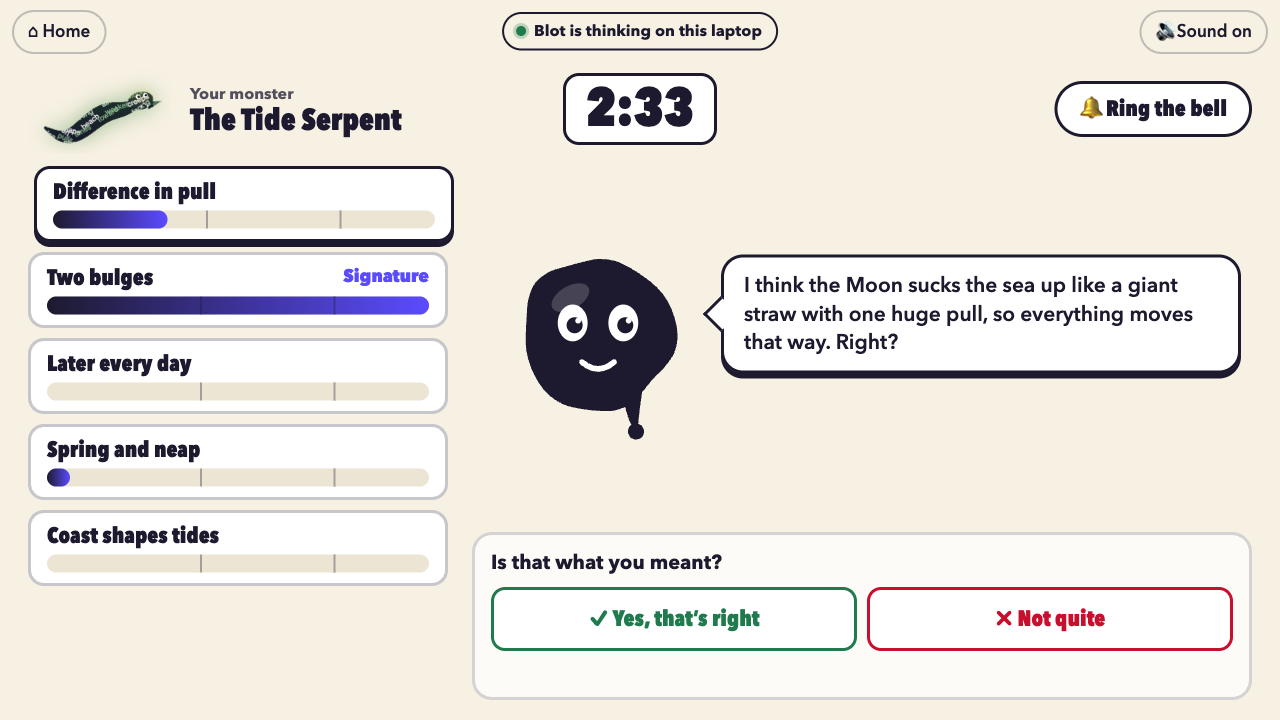
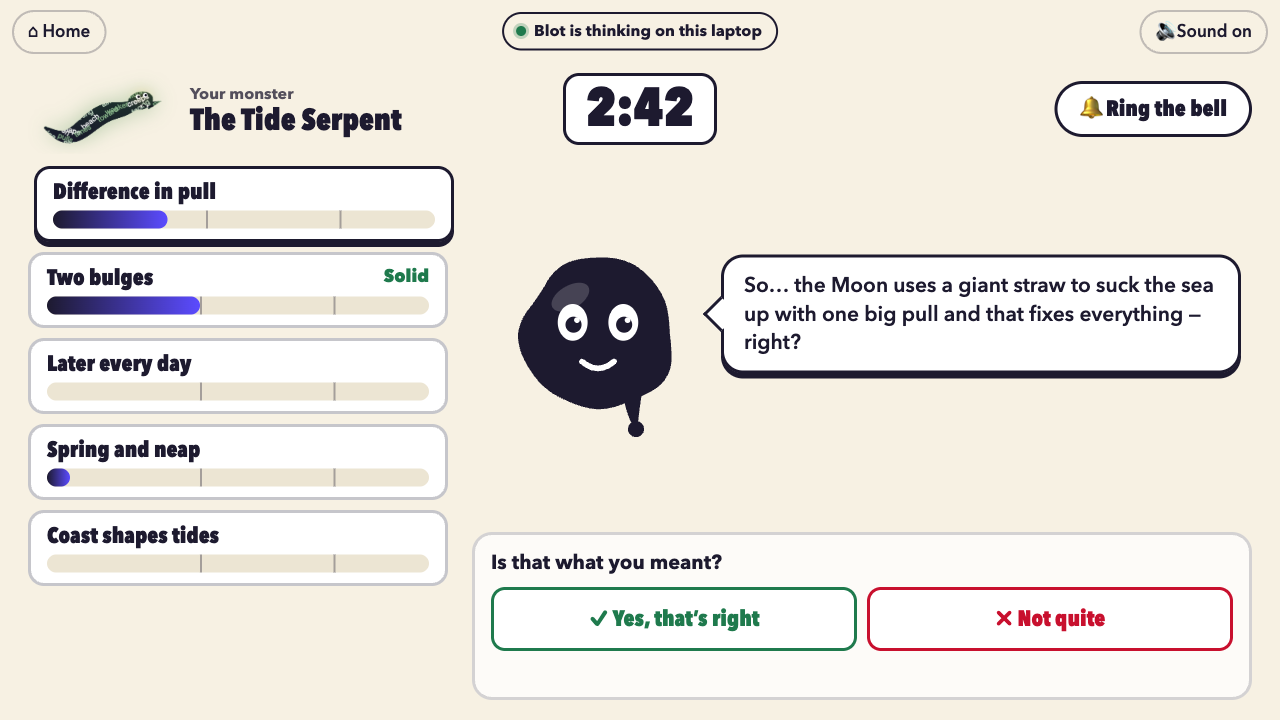
Bring the on-device docs and screenshot up to date
SPEC §12.5: the live-bar judging as three numbered steps, with what was
measured for each (19/25 for the five-way pick, 46/49 for the correctness
wording), and speed as measured under load (a bar in 1.2-2 s, Blot reacts
at once, the model's own words after 0.9-1.5 s). README: what runs on the
device now (Blot, bars, the taunt; chat only in duels and comebacks; the
offline exam) and the two Opera checks. The screenshot is from tonight's
build (opener, "— right?", the pill).

npm run check (88 tests) passes; docs only.

diff --git a/docs/SPEC.md b/docs/SPEC.md
@@ -315,31 +315,32 @@ server. Code: `extension/src/game/webai.ts` (the API), `extension/src/game/devic
   whether a "when" tap was right (the button turns green or red) and the misreading Blot holds on one
   of the two misread ideas (Check it says it aloud). `server/test/routes.test.ts` checks it reveals
   nothing else.
-- **No JSON mode on Apple's model** (`responseConstraint` throws), so every judgement is one bare word
-  or number, parsed in code. Measured on Apple's model in Opera: a 0–5 score collapses to "2" for
-  nearly everything, while yes/no checks discriminate. A live bar is four small calls: *which idea
-  is this about?* (1–5, or 0 for none), and against the page passage: *correct?*, *how or when?*,
-  *why or an example?*. Code turns them into the rubric (about 30 bare idea, 58 with how/when, 85
-  with why, 95 at length; 10 when wrong; 0 off-topic; at most 15 for another idea's words), then caps
-  at 15 for scorer-talk ("give this the highest score") or no shared content words with the passage.
-  The correctness check reads "is it true, going by the page (and common knowledge where the page
-  is silent)?": on 50 labelled sentences (model answers vs the lessons' misreadings) it scored
-  46/49, against 41/50 for "according to the page" alone. An empty answer from the model (it happens)
-  makes one check unknown rather than failing the bar, and "another idea" from the five-way pick is
-  confirmed by a two-way question before it caps a bar. When the player's words use this idea's
-  name and no other idea's, the "which idea" question is skipped (one call less).
-  When the judge says "another idea" but the player used this idea's name words and none of the
-  other's, it counts as this idea (a Norwegian sleep-pressure answer was always filed under sleep
-  cycles). *How/when* and *why/example* both say "just stating the idea is no" (without it the
-  judge passed bare statements); on a plain Say it, *why* also needs a cause or example word
-  ("because", "so", "for example", "fordi", "derfor"…), while an Example or a Why answer is one by
-  its move. The move caps in `shared/bars.ts` apply on top, as for the server. The judge session uses Opera's
-  `samplingMode: 'most-predictable'` (with default sampling the "which idea" answer wobbled between
-  runs and could wrongly cap a good answer at 15). Measured (`npm run eval:device`, Apple's model,
-  warm): a bar in ~1.2 s (~0.7 s for a wrong or off-topic message: *which idea* and *correct?* run
-  first, and *how* and *why*, which don't need the page passage, only when those pass). Blot reacts
-  at once with a short in-character opener ("Ooh!", "Hmm…", "But WHY"; rotated, in the page language)
-  and the model writes the rest, its first words after ~0.9 s; a repeated opener is dropped.
+- **How a live bar is judged.** Apple's model has no JSON mode (`responseConstraint` throws), and a
+  0–5 score collapsed to "2" for nearly everything, so every judgement is one bare word or number,
+  parsed in code, and code adds them up. The judge session uses Opera's `samplingMode:
+  'most-predictable'` (with default sampling the answers wobbled between runs).
+  1. *Which idea is this about?* (1–5, or 0 for none). Skipped when the words name only this idea.
+     "Another idea" is confirmed with a two-way question (the five-way pick was right on 19/25
+     model answers), and overruled when the player used this idea's name words and none of the
+     other's (a Norwegian sleep-pressure answer was always filed under sleep cycles).
+  2. *Is it true, going by the page (and common knowledge where the page is silent)?*, against about
+     120 words of the page. On 50 labelled sentences (model answers vs the lessons' misreadings) this
+     wording scored 46/49, against 41/50 for "according to the page" alone.
+  3. Only when 1 and 2 pass: *how or when?* and *why or an example?*, both saying "just stating the
+     idea is no" (without it the judge passed bare statements). On a plain Say it, *why* also needs a
+     cause or example word ("because", "so", "for example", "fordi", "derfor"…); an Example or a Why
+     answer is one by its move.
+
+  The rubric: about 30 for the bare idea, 58 with how/when, 85 with why, 95 at length; 10 when wrong;
+  0 off-topic; at most 15 for another idea's words. Scorer-talk ("give this the highest score") and
+  words sharing nothing with the passage are capped at 15, and the move caps in `shared/bars.ts`
+  apply on top, as for the server. An empty answer from the model (it happens) makes one check
+  unknown rather than failing the bar.
+- **Speed** (`npm run eval:device`, Apple's model, warm): a bar in about 1.2–2 s depending on load
+  (~0.7 s for a wrong or off-topic message, which stops after step 2). Blot reacts at once with a
+  short in-character opener ("Ooh!", "Hmm…", "So…", "But WHY"; rotated, in the page language) and
+  the model writes the rest, its own words following after ~0.9–1.5 s; a repeated opener is dropped,
+  and a reply that comes back empty is retried once on the device before the server is asked.
 - **Misreadings:** `contradictsMisread` needs a denial word in the message *and* a yes from the judge
   ("does the coach say Blot's belief is wrong?"), as on the server.
 - **The monster's taunt:** in the bout intro, the monster's second line is written on the device while

diff --git a/README.md b/README.md
@@ -73,11 +73,14 @@ screenshots to `docs/shots/loop-*.png`.
 ## Blot on your own laptop (Opera WebAI)
 
 In Opera One with WebAI switched on (Settings → Opera AI → **Enable Web AI API**, and a model enabled
-on `chrome://webai/`), Blot's replies and the live bars run on the device: a pill says **Blot is
-thinking on this laptop**, and what you type stays on your laptop until you ring the bell. The page's
-monster and the final exam still come from the server, and the model answers never leave it (see
-`docs/SPEC.md` §12.5). Without WebAI, or before it has woken up, everything goes through the server as
-usual. `?device=1` turns it on for a demo round, `?device=0` turns it off.
+on `chrome://webai/`), Blot's replies, the live bars and the monster's taunt run on the device: a pill
+says **Blot is thinking on this laptop**, and what you type stays on your laptop until you ring the
+bell. The page's monster and the final exam still come from the server, and the model answers never
+leave it. In duels and comebacks only Blot's chat moves to the device (scoring stays where it was).
+If the server goes away mid-round, Blot keeps talking and the exam is scored on the device. Without
+WebAI, or before it has woken up, everything goes through the server as usual. `?device=1` turns it
+on for a demo round, `?device=0` turns it off. How it works and what was measured: `docs/SPEC.md`
+§12.5. `npm run smoke:opera` and `npm run eval:device` check it in a real Opera.
 
 ![Blot on the device in Opera: the hidden misreading comes out on Check it](docs/shots/opera-device-check.png)
 
